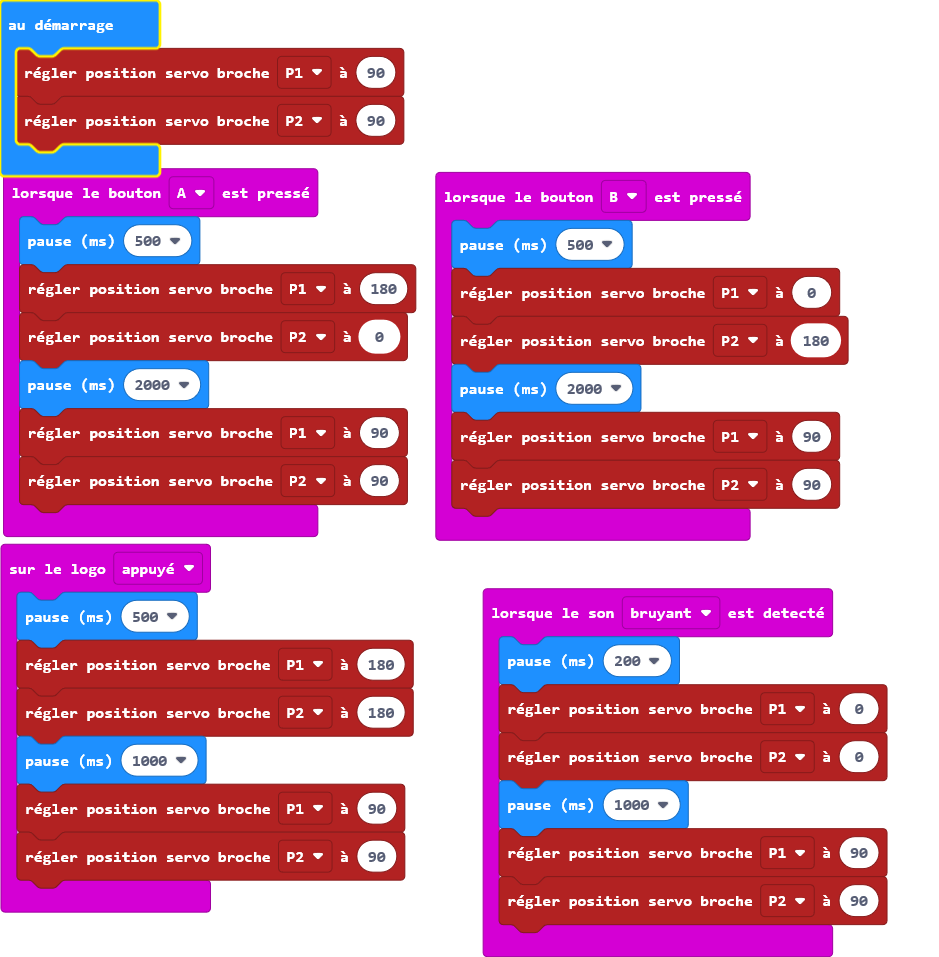
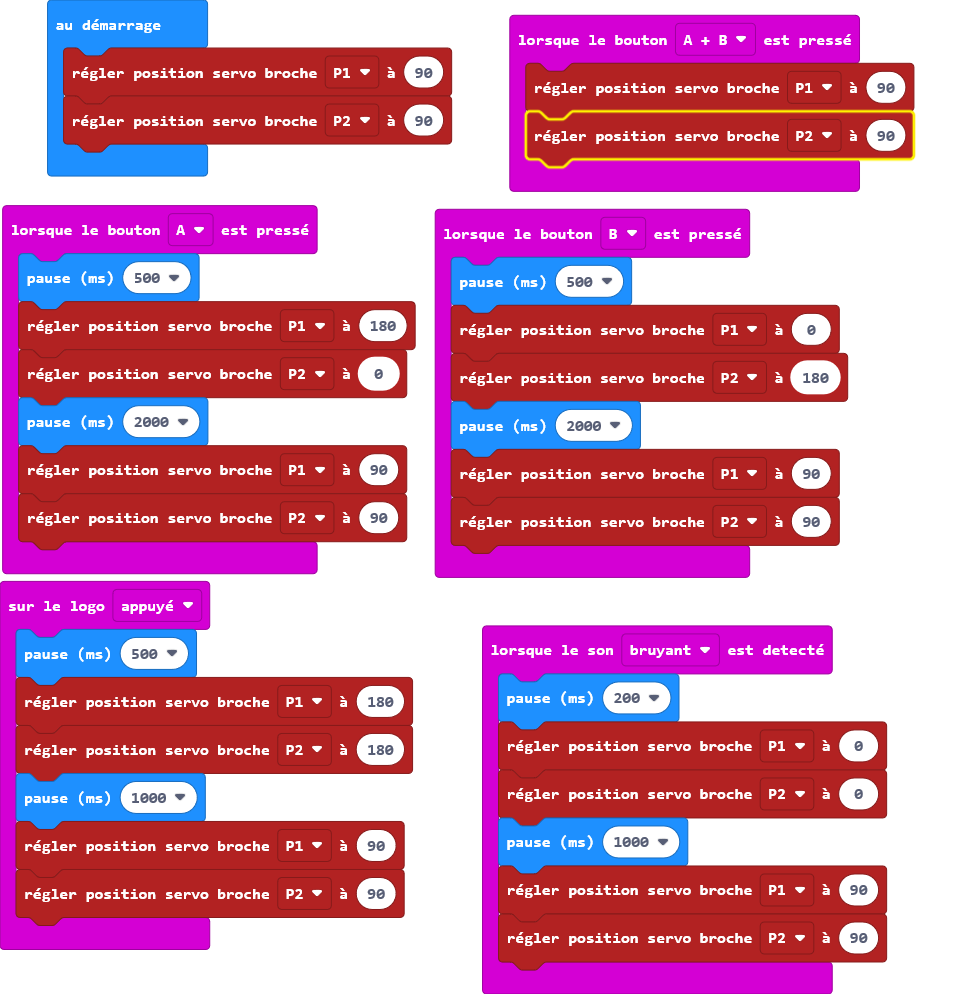
Mise à jour main.blocks, main.ts

diff --git a/main.ts b/main.ts
@@ -14,6 +14,10 @@ input.onButtonPressed(Button.A, function () {
     pins.servoWritePin(AnalogPin.P1, 90)
     pins.servoWritePin(AnalogPin.P2, 90)
 })
+input.onButtonPressed(Button.AB, function () {
+    pins.servoWritePin(AnalogPin.P1, 90)
+    pins.servoWritePin(AnalogPin.P2, 90)
+})
 input.onButtonPressed(Button.B, function () {
     basic.pause(500)
     pins.servoWritePin(AnalogPin.P1, 0)
